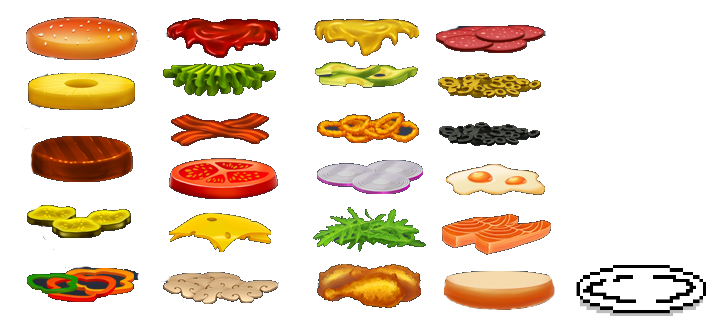
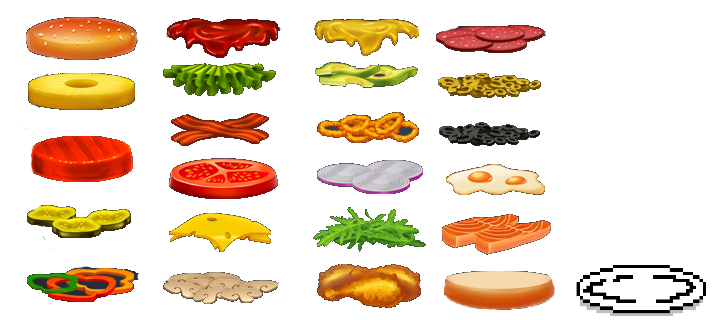
added meat cooking and changed a couple minor stuff

Changed region(s): [[0.0306, 0.4062, 0.1833, 0.5938]]

diff --git a/src/Game/Entities/Static/StoveCounter.java b/src/Game/Entities/Static/StoveCounter.java
@@ -3,9 +3,66 @@ package Game.Entities.Static;
 import Main.Handler;
 import Resources.Images;
 
+import java.awt.*;
+
 public class StoveCounter extends BaseCounter {
+
+    int cookTime = 85;
+    int burntTime = 6*60;
+    int timeInStove = 0;
+    boolean cooking = false;
+    boolean burnt = false;
+    float tint = 1;
     public StoveCounter(int xPos, int yPos, Handler handler) {
         super(Images.kitchenCounter[0], xPos, yPos,96,102,handler);
         item = new Item(Images.ingredients[1]);
+    }
+
+    @Override
+    public void tick() {
+        if(cooking){
+            timeInStove++;
+            tint-=.002;
+            if(tint<=0){
+                tint=0;
+            }
+        }
+        if(timeInStove>burntTime){
+            burnt=true;
+        }
+    }
+
+    @Override
+    public void interact() {
+        if(!cooking){
+            cooking=true;
+            item.sprite = Images.ingredients[1];
+        }else{
+            if(timeInStove<burntTime && timeInStove>cookTime){
+                item.sprite = Images.tint(item.sprite,tint,tint,tint);
+                handler.getPlayer().getBurger().addIngredient(item);
+                cooking=false;
+                burnt=false;
+                timeInStove=0;
+                tint = 1;
+            }
+            else if(timeInStove>burntTime){
+                cooking=false;
+                burnt=false;
+                timeInStove=0;
+                tint = 1;
+            }
+        }
+
+    }
+
+    public void render(Graphics g){
+        g.drawImage(sprite,xPos,yPos,width,height,null);
+        if(cooking){
+            g.drawImage(Images.tint(item.sprite,tint,tint,tint),xPos + width/2 - 25,yPos +height/2+25,50,30,null);
+        }
+        if(isInteractable() && item != null){
+            g.drawImage(item.sprite,xPos + width/2 - 25,yPos -30,50,30,null);
+        }
     }
 }

diff --git a/src/Game/Entities/Static/Item.java b/src/Game/Entities/Static/Item.java
@@ -15,7 +15,7 @@ public class Item {
     public static Item cheese = new Item(Images.ingredients[2]);
     public static Item lettuce = new Item(Images.ingredients[4]);
     public static Item tomato = new Item(Images.ingredients[3]);
-    public static Item burger = new Item(Images.ingredients[1]);
+    public static Item burger = new Item(Images.tint(Images.ingredients[1],0.5f,0.5f,0.5f));
     public static Item botBread = new Item(Images.ingredients[5]);
     public static Item topBread = new Item(Images.ingredients[0]);
 }
